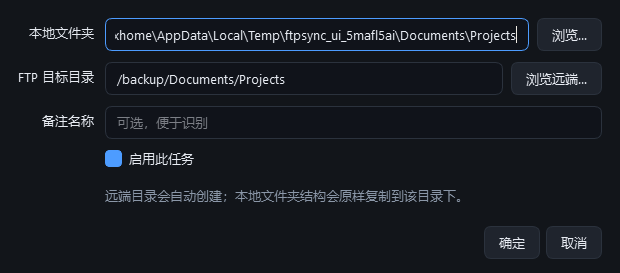
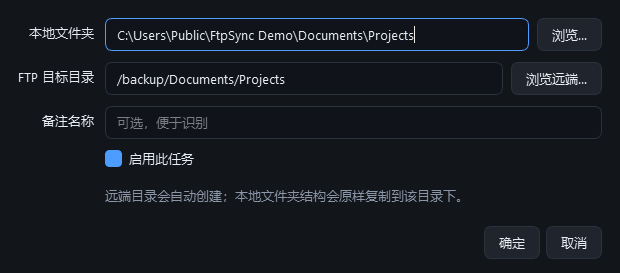
Remove the local user name from the screenshots
The repository is public, so the demo tree used for screenshots now lives at a neutral %PUBLIC%\FtpSync Demo instead of a per-user temp folder - no C:/Users/... path, no random suffix, and it is deleted again afterwards.

tools/shot.py now refuses to finish if any visible label, table cell or the run log still contains the local user name, profile path or temp directory, so a future run cannot publish private paths silently.

Also drops docs/screenshot-diagnose.png (unreferenced, captured against a real configuration) and adds docs/RELEASE-v1.8.2.md. README links to Releases with an absolute URL, because the relative form resolves differently on the repository home page.

Changed region(s): [[0.1839, 0.1172, 0.8581, 0.1465]]

diff --git a/tools/shot.py b/tools/shot.py
@@ -18,7 +18,12 @@ from pathlib import Path
 ROOT = Path(__file__).resolve().parent.parent
 sys.path.insert(0, str(ROOT))
 
-DATA = Path(tempfile.mkdtemp(prefix="ftpsync_ui_"))
+# Screenshots end up in a public repository, so the demo tree lives at a neutral
+# path: no user name, no random temp suffix.  %PUBLIC% is writable without admin.
+DATA = Path(os.environ.get("PUBLIC") or r"C://Users//Public") / "FtpSync Demo"
+if DATA.exists():
+    shutil.rmtree(DATA, ignore_errors=True)
+DATA.mkdir(parents=True, exist_ok=True)
 os.environ["APPDATA"] = str(DATA)          # keep the real user profile clean
 
 from pyftpdlib.authorizers import DummyAuthorizer          # noqa: E402
@@ -93,6 +98,43 @@ def pump(app, seconds: float, until=None) -> None:
         if until is not None and until():
             break
         time.sleep(0.02)
+
+
+def private_strings() -> list:
+    """Anything that would leak the person who took the screenshot."""
+    cands = [os.environ.get("USERNAME", ""), os.environ.get("USERPROFILE", ""),
+             os.environ.get("USERDOMAIN", ""), tempfile.gettempdir()]
+    return [c for c in cands if c and len(c) > 3]
+
+
+def assert_no_private_paths(win) -> list:
+    """Collect visible text that still contains a local path / user name."""
+    from PySide6.QtWidgets import (QAbstractButton, QComboBox, QLabel, QLineEdit,
+                                   QTextEdit, QPlainTextEdit, QAbstractItemView)
+
+    leaks, needles = [], private_strings()
+    widgets = [win] + win.findChildren(object)
+    for w in widgets:
+        texts = []
+        for attr in ("text", "placeholderText", "currentText", "toolTip", "windowTitle"):
+            getter = getattr(w, attr, None)
+            if callable(getter):
+                try:
+                    texts.append(getter())
+                except Exception:
+                    pass
+        for t in texts:
+            if isinstance(t, str) and any(n.lower() in t.lower() for n in needles):
+                leaks.append(f"{type(w).__name__}: {t[:110]}")
+
+    model = getattr(win, "model", None)
+    if model is not None:
+        for r in range(model.rowCount()):
+            for c in range(len(__import__("app.ui.table", fromlist=["COLUMNS"]).COLUMNS)):
+                v = model.data(model.index(r, c), 0)
+                if isinstance(v, str) and any(n.lower() in v.lower() for n in needles):
+                    leaks.append(f"table r{r}c{c}: {v[:110]}")
+    return leaks
 
 
 def main() -> int:
@@ -207,6 +249,36 @@ def main() -> int:
     shot_about("en", "screenshot-about-en.png")
     set_language("zh")
 
+    # refuse to publish screenshots that still show the local user name / paths
+    leaks = assert_no_private_paths(win)
+    for extra in ("screenshot-log.png",):
+        pass
+    log_text = win.txt_log.toPlainText()
+    for needle in private_strings():
+        if needle.lower() in log_text.lower():
+            leaks.append(f"run log: contains {needle!r}")
+    if leaks:
+        print("PRIVATE DATA WOULD LEAK INTO THE SCREENSHOTS:")
+        for item in leaks[:20]:
+            print("   ", item)
+        return 1
+    print("privacy check: no local user name or path in the captured UI ✔")
+
+    # refuse to publish screenshots that still show the local user name / paths
+    leaks = assert_no_private_paths(win)
+    for extra in ("screenshot-log.png",):
+        pass
+    log_text = win.txt_log.toPlainText()
+    for needle in private_strings():
+        if needle.lower() in log_text.lower():
+            leaks.append(f"run log: contains {needle!r}")
+    if leaks:
+        print("PRIVATE DATA WOULD LEAK INTO THE SCREENSHOTS:")
+        for item in leaks[:20]:
+            print("   ", item)
+        return 1
+    print("privacy check: no local user name or path in the captured UI ✔")
+
     print("---- LOG ----")
     print(win.txt_log.toPlainText()[-4000:])
     print("remote tree:")
@@ -215,6 +287,8 @@ def main() -> int:
 
     win.close()
     srv.close_all()
+    shutil.rmtree(DATA, ignore_errors=True)     # leave no demo files behind
+    shutil.rmtree(DATA, ignore_errors=True)     # leave no demo files behind
     shutil.rmtree(DATA, ignore_errors=True)
     return 0
 

diff --git a/docs/RELEASE-v1.8.2.md b/docs/RELEASE-v1.8.2.md
@@ -1,0 +1,47 @@
+## FTP One-Way mirror v1.8.2
+
+Single-file Windows build (x64). Download `FtpSync.exe` below and run it — nothing to install,
+no `_internal` folder, no administrator rights, no registry writes.
+
+**Start-up:** ~2–4 s from a local disk. Keep it on a local disk — a one-file build unpacks
+~28 MB on every launch, so running it from a network share takes 30 s or more.
+
+### Changes since v1.8.1
+
+**Fixed**
+
+* **Help → About did nothing.** The dialog code concatenated `data_dir()` (a `pathlib.Path`)
+  to a string, raising `TypeError`; the slot guard swallowed it into the crash log, so the UI
+  stayed silent. Now formatted with an f-string.
+* **Failures inside UI slots are no longer silent.** A guarded slot that raises now shows
+  *刚才的操作出错了，程序已继续运行* together with the traceback, rate-limited to once per
+  slot per 20 s — instead of only writing a log line.
+
+**Added**
+
+* `FtpSync.exe --about [file]` prints version / owner / contact (writes to a file when no
+  console is attached).
+* `FtpSync.exe --selftest out.png --about` opens the About dialog and saves it, so packaged
+  builds can be verified end to end.
+* `tools/test_about.py` clicks the real menu action and asserts the dialog appears.
+
+### What it does
+
+One-way mirror from Windows folders/files to FTP or FTPS. Incremental transfers (SQLite state
+cache — unchanged files cost nothing), mirrored deletions with a bulk-delete guard, timestamp
+preservation via `MFMT`, zh/en UI, per-server diagnostics, crash guards.
+
+Tolerant of cheap FTP servers: `OPTS MLST` → 501, no `MLSD`, no `MFMT`/`MDTM`,
+absolute-path `MKD` refused, concurrency limits (505/421), and servers that only accept writes
+inside the current directory (TP-LINK).
+
+### Integrity
+
+```
+SHA-256 70b36002925eb527de429ea32a054fe31c1348d03fd72b2ae990f495641f4aca
+```
+
+Verify with `certutil -hashfile FtpSync.exe SHA256`.
+
+Full history: [CHANGELOG.md](https://github.com/fanjx000/FTP-One-Way-mirror/blob/main/CHANGELOG.md).
+Licence: MIT. Owner: Justin Fan J.X. — fanjunxin@gmail.com

diff --git a/README.md b/README.md
@@ -20,7 +20,7 @@ What makes it different from a plain `rsync`/script job:
 
 ## 1. How to run
 
-**Download** `FtpSync.exe` from the [Releases](../../releases) page (single file, ~28 MB), or
+**Download** `FtpSync.exe` from the [Releases](https://github.com/fanjx000/FTP-One-Way-mirror/releases) page (single file, ~28 MB), or
 build it yourself with `build.bat` (see [§9](#9-run-from-source--build-it-yourself)).
 
 ```
